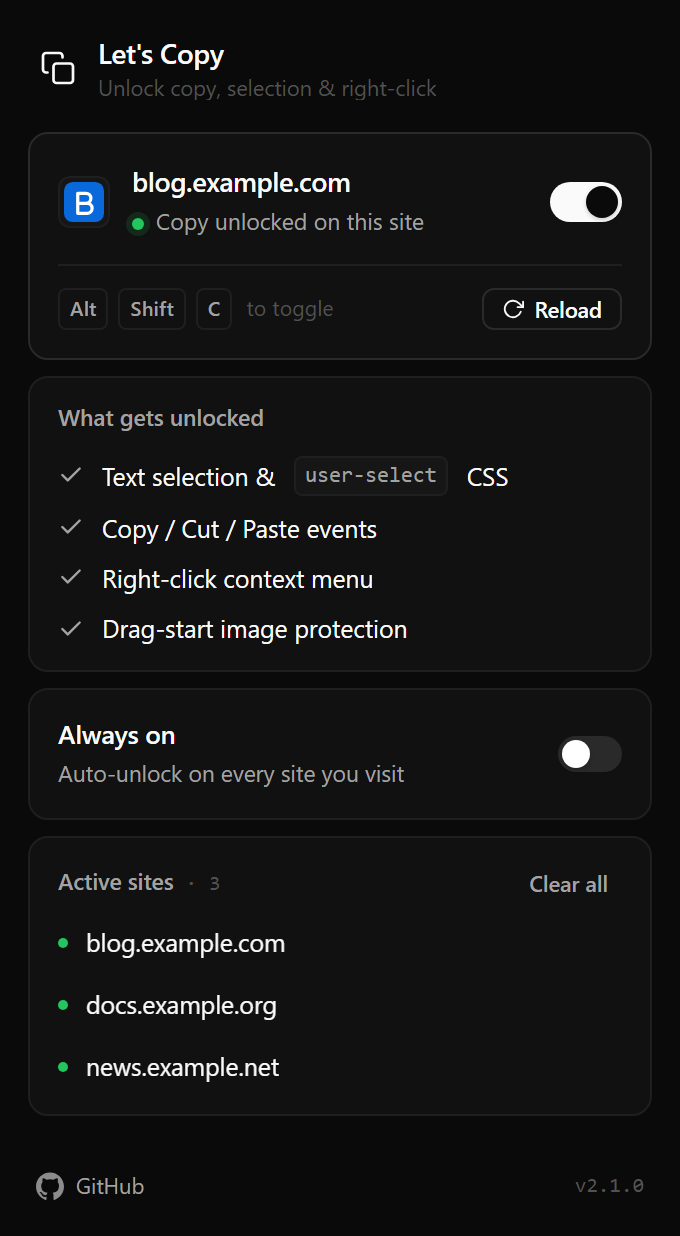
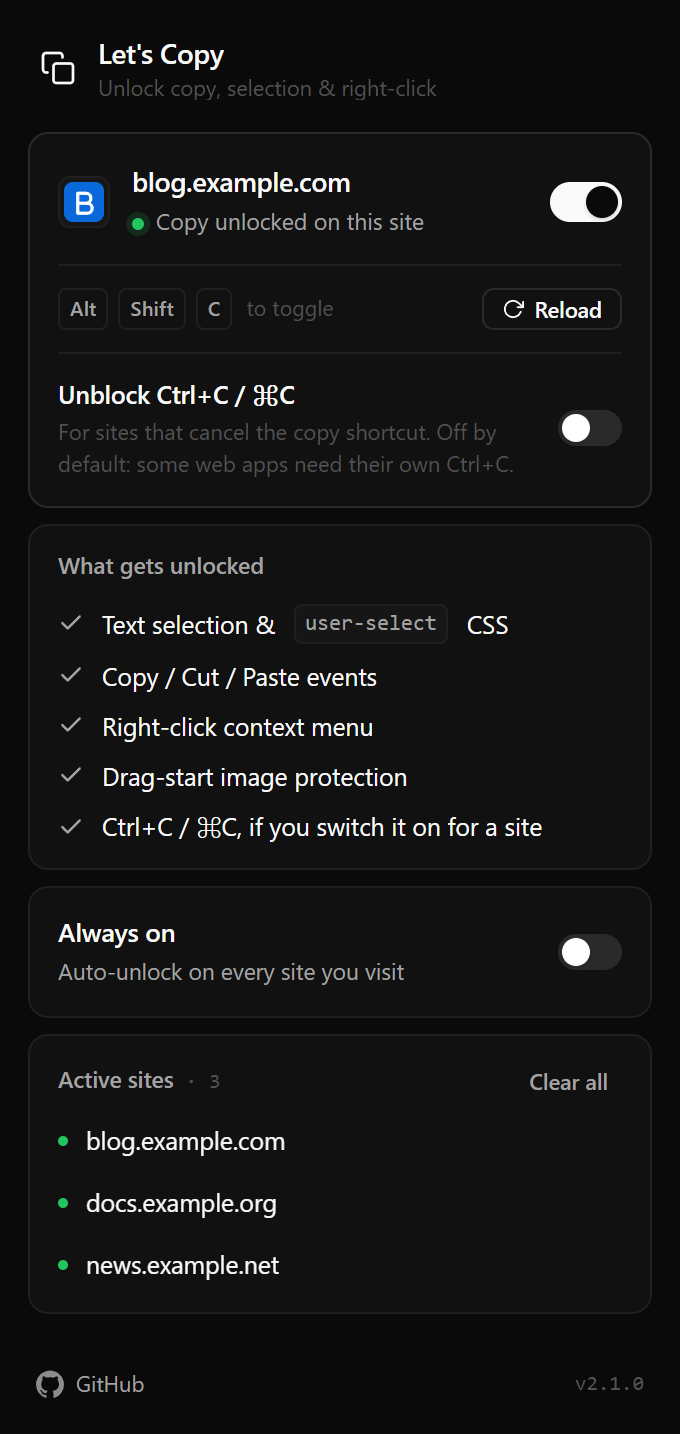
docs: document the Ctrl+C switch, refresh the popup shots and the diagram
README: the popup section explains "Unblock Ctrl+C / ⌘C" (per site, off
by default, applies without a reload, and why), "Good to know" points
keyboard-blocked sites at it instead of saying they can't be helped, and
How it works says the shortcut joins the list of stopped events where it
is switched on. Removing a site now forgets its setting, and the README
says so.

PRIVACY.md lists the new locally stored item (the sites where the switch
is on), in both languages, and dates the Google favicon removal: 2.2.0.

The popup screenshots show the new switch; the diagram mentions it. The
screenshot script now opens a fresh popup tab per colour scheme, set
before the page loads, because switching an open page caught the theme
transition half-way.

diff --git a/docs/images/src/how-it-works.html b/docs/images/src/how-it-works.html
@@ -87,7 +87,7 @@
       <p>Each site you turn on gets a content script in the page's own JavaScript world, before any of the page's scripts run.</p></div>
     <div class="box"><div class="label"><i></i>2 · Stops the events</div>
       <h4>Capture-phase listeners on <code>window</code></h4>
-      <p><code>contextmenu</code>, <code>copy</code>, <code>cut</code>, <code>paste</code>, <code>selectstart</code>, <code>dragstart</code> and right-button mouse events.</p></div>
+      <p><code>contextmenu</code>, <code>copy</code>, <code>cut</code>, <code>paste</code>, <code>selectstart</code>, <code>dragstart</code>, right-button presses, and Ctrl+C / ⌘C where you switch it on.</p></div>
     <div class="box"><div class="label"><i></i>3 · Cleans up the rest</div>
       <h4>CSS and inline handlers</h4>
       <p><code>user-select: auto !important</code> everywhere, and <code>on*</code> blockers removed from existing and newly added elements.</p></div>

diff --git a/README.md b/README.md
@@ -51,10 +51,15 @@ Click the Let's Copy button in the toolbar (pin it from the puzzle-piece menu if
 - **Reload** appears while a site is on. A few sites install their blockers before Let's Copy can get
   in front of them. On those, right-click starts working after one reload, and from then on every
   visit is unlocked from the start.
+- **Unblock Ctrl+C / ⌘C** appears while a site is on, and is off by default. Switch it on for sites
+  that cancel the copy shortcut itself: the page then never sees Ctrl+C (⌘C on a Mac), so the browser
+  copies as usual. It's per site, because web apps with their own Ctrl+C (editors, spreadsheets) need
+  to see it. It takes effect straight away, without a reload.
 - **Always on** unlocks every site you visit. While it's on, the per-site switch and the shortcut do
   nothing, because there is nothing to switch.
-- **Active sites** lists the sites you've turned on. Hover over one and click × to remove it. *Clear
-  all* asks for a second click, then forgets every site and turns Always on off.
+- **Active sites** lists the sites you've turned on. Hover over one and click × to remove it (that
+  also forgets its Ctrl+C setting). *Clear all* asks for a second click, then forgets every site and
+  every setting, and turns Always on off.
 
 ## How it works
 
@@ -75,7 +80,8 @@ them. Let's Copy deals with all three ([`src/enable.js`](src/enable.js)):
 2. The script listens for `contextmenu`, `selectstart`, `copy`, `cut`, `paste`, `dragstart` (and the
    right mouse button) on `window`, in the capture phase. That is the first stop of every event, so it
    can stop the event before any of the page's listeners see it. The browser then does what it
-   normally does: shows the menu, copies the text, starts the selection.
+   normally does: shows the menu, copies the text, starts the selection. On sites where you switch on
+   *Unblock Ctrl+C / ⌘C*, the copy shortcut's `keydown` is one more event on that list.
 3. It adds a stylesheet that sets `user-select: auto !important` on everything. It also removes inline
    blockers (`oncontextmenu`, `oncopy`, `onselectstart`, `onmousedown`, `unselectable`, …), including on
    elements the page adds later.
@@ -87,15 +93,16 @@ On csdn.net it also switches on `designMode`, which makes CSDN's code blocks sel
 - **The page's own copy and paste handling is skipped too.** While a site is on, its `copy`, `cut` and
   `paste` listeners never run, including useful ones such as pasting an image into a chat box. If a web
   app misbehaves, turn Let's Copy off for that site, or turn off Always on.
-- **Ctrl+C blocked on the keyboard isn't undone.** Some sites cancel the `Ctrl+C` key press itself. On
-  those, select the text and use **Copy** from the right-click menu.
+- **Ctrl+C blocked on the keyboard needs the extra switch.** Some sites cancel the `Ctrl+C` key press
+  itself. Switch on *Unblock Ctrl+C / ⌘C* for those sites, or use **Copy** from the right-click menu.
+  While the switch is on, the site's own Ctrl+C handling doesn't run either.
 - **Turning a site off reloads it.** The unlock can't be undone in a page that's already open.
 
 ## Permissions
 
 | Permission | What it is for |
 |---|---|
-| `storage` | Remembers the sites you turned on and whether Always on is set, in your browser profile. |
+| `storage` | Remembers the sites you turned on, where Ctrl+C is unblocked, and whether Always on is set, in your browser profile. |
 | `scripting` | Runs the unlock script on the sites you turned on. |
 | Access to all websites (`<all_urls>`) | Lets the unlock script run on whichever site you pick, and lets the popup show which site the current tab is on. |
 

diff --git a/PRIVACY.md b/PRIVACY.md
@@ -1,6 +1,6 @@
 # Privacy Policy — Let's Copy
 
-**Effective date:** 2026-11-03
+**Effective date:** 2026-11-04
 
 ## TL;DR
 
@@ -16,6 +16,7 @@ The extension uses `chrome.storage.local` to remember:
 
 - The list of hostnames you have explicitly enabled (e.g. `example.com`)
 - Whether the **Always on** mode is active
+- The hostnames where you switched on **Unblock Ctrl+C / ⌘C**
 
 This data:
 
@@ -37,7 +38,7 @@ The extension only injects code into tabs whose hostname matches your enabled li
 
 None. The only image the popup loads from outside the extension is the current tab's own icon, from the address the browser already found for that site (usually served from the browser cache, and with `referrerpolicy="no-referrer"`). If the browser has no icon for the tab, the popup shows a built-in globe instead.
 
-Versions up to 2.1.0 asked Google's public favicon service (`https://www.google.com/s2/favicons?domain={hostname}`) for an icon in that case, which sent it the hostname of the current tab. That request was removed in the version after 2.1.0.
+Versions up to 2.1.0 asked Google's public favicon service (`https://www.google.com/s2/favicons?domain={hostname}`) for an icon in that case, which sent it the hostname of the current tab. That request was removed in 2.2.0.
 
 ## Analytics, telemetry, advertising
 
@@ -59,7 +60,7 @@ Questions or concerns: <https://github.com/NatLee/lets-copy/issues>
 
 # 隱私權政策 — Let's Copy
 
-**生效日期：** 2026-11-03
+**生效日期：** 2026-11-04
 
 ## 簡述
 
@@ -75,6 +76,7 @@ Let's Copy 用於解除網站對複製、文字選取、右鍵選單的限制，
 
 - 使用者明確啟用過的網站主機名稱清單（例如 `example.com`）
 - **Always on** 模式是否啟用
+- 使用者開啟 **Unblock Ctrl+C / ⌘C** 的網站主機名稱
 
 這些資料：
 
@@ -96,7 +98,7 @@ Let's Copy 用於解除網站對複製、文字選取、右鍵選單的限制，
 
 無。Popup 唯一會從擴充功能以外載入的圖片，是當前分頁網站自己的圖示，網址是瀏覽器已經為該網站找到的那一個（通常直接從瀏覽器快取取得，並使用 `referrerpolicy="no-referrer"`）。如果瀏覽器沒有這個分頁的圖示，popup 會改用內建的地球圖示。
 
-2.1.0 以前的版本在這種情況下會向 Google 的公開 favicon 服務（`https://www.google.com/s2/favicons?domain={hostname}`）要圖示，請求中會帶有當前分頁的主機名稱。2.1.0 之後的版本已移除這個請求。
+2.1.0 以前的版本在這種情況下會向 Google 的公開 favicon 服務（`https://www.google.com/s2/favicons?domain={hostname}`）要圖示，請求中會帶有當前分頁的主機名稱。2.2.0 起已移除這個請求。
 
 ## 分析、遙測、廣告
 
